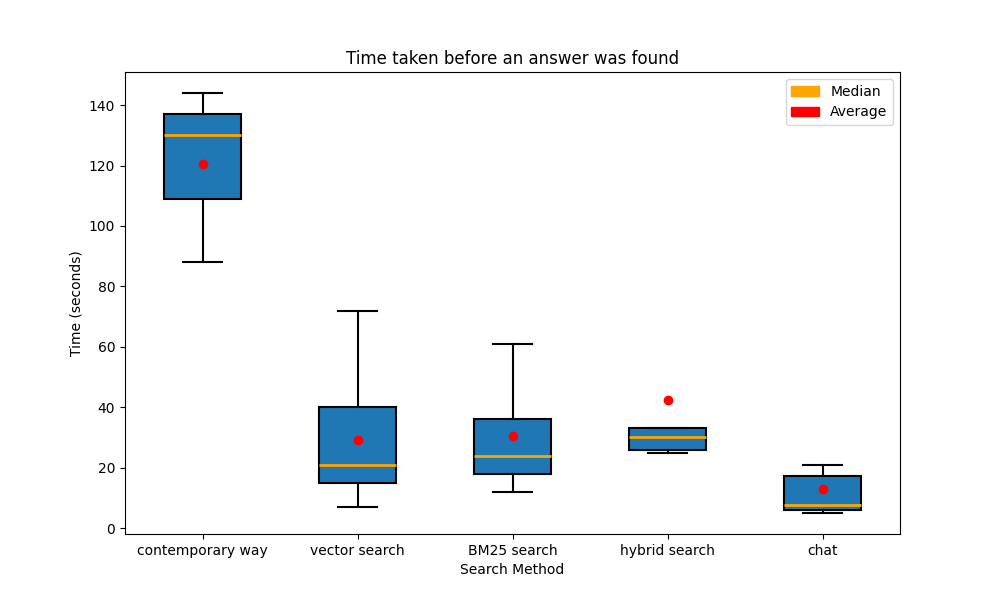
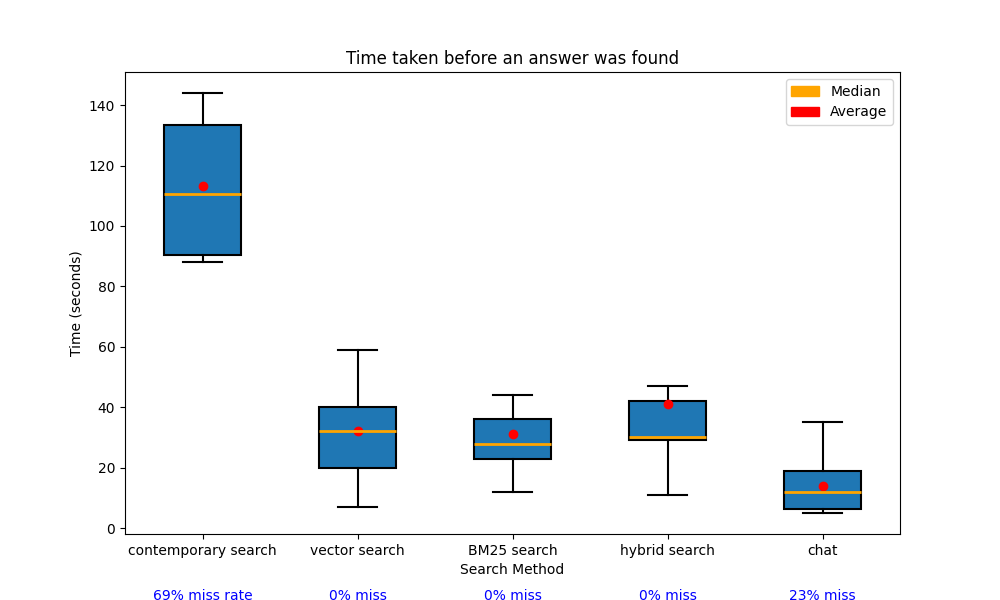
more thesis work

diff --git a/latex/latex_template_thesis_v4-2/thesis.tex b/latex/latex_template_thesis_v4-2/thesis.tex
@@ -8,6 +8,8 @@
 \usepackage{algpseudocode}
 \usepackage{fancyvrb}
 \usepackage{xcolor}
+\usepackage{subcaption}
+\usepackage{graphicx}
 
 % Citations
 \usepackage[style=numeric]{biblatex}
@@ -54,7 +56,7 @@ In summary, the research questions this thesis aims to answer are:
     \item How well can the developed search system be integrated with a large language model, creating a helpful chat bot capable of answering questions and providing complementary information when needed?
     \\
     
-    Together, these sub-research questions can be used to answer the main question:
+    Together, these sub-research questions can be used to answer the main research question:
     \item How can AI be utilized in order to increase information retrievability of large video archives, in particular of democratically elected councils?
 \end{enumerate}
 
@@ -533,7 +535,7 @@ This normalisation removes all non-alphabetical characters and converts all text
 \begin{figure}
     \centering
     \includegraphics[width=0.85\textwidth]{images/whisperBench.png}
-    \caption{Whisper transcription results}
+    \caption{Whisper transcription WER results}
     \label{fig:whisperExperiment}
 \end{figure}
 
@@ -565,21 +567,43 @@ geheim \textcolor{green}{verklaren} (verklaaren) ...
 \subsection{Pyannote}\label{sec:pyanExp}
 As described in section \ref{sec:pyannote}, speaker diarisation is scored based on the Diarisation Error Rate (DER). At the time of writing, pyannote.audio offers the best performing speaker diarisation, as shown in figure \ref{fig:pyanres}. 
 
-To test how well pyannote performs on the municipality dataset, I manually annotated 30 random minutes of meetings, distributed over five different meetings. I used audio tool Audacity \footnote{https://www.audacityteam.org/} to obtain millisecond-accurate timestamps. During manual diarisation, speakers were named arbitrarily. After diarisation, the manual speaker names were mapped to the speaker names given by pyannote to make sure the confusion rate metric can be performed.
+To test how well pyannote performs on the municipality dataset, I manually annotated 30 random minutes of meetings, distributed over five different meetings, from four different municipalities over three years. I used audio tool Audacity \footnote{https://www.audacityteam.org/} to obtain millisecond-accurate timestamps. During manual diarisation, speakers were named arbitrarily. After diarisation, the manual speaker names were mapped to the speaker names given by pyannote to make sure the confusion rate metric can be performed.
+
+One example of how a such a manual diarisation looks relative to a pyannote diarisation, can be seen in figure \ref{fig:manvspyan}. This snippet is taken from a Ridderkerk meeting in 2022, with code $938576$, starting at 00:41:10. As can be seen from the figure, the graph is mostly identical, ignoring some small starting- and ending points discrepancies. 
+One thing that stands out however, is the addition of two very short speaking turns picked up by pyannote. The first occurrence of this happens around 2530 seconds, where speaker 17 allegedly starts talking. This turns out to be just some noise resulting from the Zoom. Another the other short speaking turn, occurring at around 2615 seconds, is just a noise made by a meeting member, not worthy of being classified as speech. 
+
+\begin{figure}[htbp]
+    \centering
+    \begin{subfigure}{0.9\textwidth}
+        \centering
+        \includegraphics[width=\linewidth]{images/refDiar.png}
+        \caption{pyannote diarisation}
+        \label{fig:subfiga}
+    \end{subfigure}
+    \hfill
+    \begin{subfigure}{0.9\textwidth}
+        \centering
+        \includegraphics[width=\linewidth]{images/hypDiar.png}
+        \caption{Manual diarisation}
+        \label{fig:subfigb}
+    \end{subfigure}
+    \caption{Manual diarisation versus pyannote diarisation}
+    \label{fig:manvspyan}
+\end{figure}
 
 To address systemic differences in the idea when speech begins and ends, I performed two metrics. One with a 500 milliseconds collar, one with a 50 milliseconds collar, and one without a collar. 
 A collar is a margin of time around each speaker turn boundary. A 250 milliseconds collar would mean that the 125 milliseconds before and after each speaker change are excluded from evaluation.
 
 \begin{figure}
     \centering
-    \includegraphics[width=0.89\textwidth]{images/error_rates_box_plots.png}
+    \includegraphics[width=0.98\textwidth]{images/error_rates_box_plots.png}
     \caption{pyannote speaker diarisation results}
     \label{fig:pyanExperiment}
 \end{figure}
 
-Comparing figure \ref{fig:pyanExperiment} to the benchmark results in figure\ref{fig:pyanres}, some interesting observations can be made. 
+Comparing figure \ref{fig:pyanExperiment} to the benchmark results in figure \ref{fig:pyanres}, some interesting observations can be made. 
 Firstly, the measured Confusion rate is significantly lower than in the official benchmarks. Additionally, the average Miss- and False Alarm rates are roughly equivalent to those in the benchmark results. However, my application exhibits a few high outliers, predominantly originating from Zoom meetings. These outliers, as discussed in the previous section, are introduced by the same drawbacks associated with the online meeting environment.
-Finally, the DER, combining all previous mentioned metrics, is again fairly similar to the official benchmarks, even including the Zoom outliers. 
+Finally, the Diarisation Error Rate, combining all previous mentioned metrics, is again fairly similar to the official benchmarks, even including the Zoom outliers. 
 For all evaluated metrics, the median values are either comparable to- or notably lower than those in the official benchmarks. Indicating a strong general performance.
 One potential reason as to why pyannote seems to perform better on these meetings, is the relative simple structure of the meetings. There is not too much overlapping speech and speakers generally are speaking through good microphones.
 
@@ -601,7 +625,8 @@ Second is the sliding window approach used. Long meetings easily contain several
 
 
 \section{Search engine}\label{sec:searchEngineExp}
-To Answer the main research question \textit{how can AI be utilized in order to increase information retrievability of large video archives, in particular of democratically elected councils}? and the subquestion \textit{how well can the developed search system be integrated with a large language model, creating a helpful chat bot capable of answering questions and providing complementary information when needed}?, I gathered 10 participants and tasked them to find the answer to five questions using five different search methods.
+In this section, the developed methods for research question 4 and 5 are evaluated. The implementation that is to be evaluated is directly embedded in the final search engine. Thus, this section indirectly also provides an evaluation to the implementation of the main research question, \textit{How can AI be utilized in order to increase information retrievability of large video archives, in particular of democratically elected councils}?
+To do this, I gathered 13 participants and tasked them to find the answer to five questions using five different search methods.
 
 \begin{enumerate}
     \item The contemporary way, scrolling through the video and using its agenda points;
@@ -611,7 +636,9 @@ To Answer the main research question \textit{how can AI be utilized in order to 
     \item Using the chat function.
 \end{enumerate}
 
-For each participant, the search methods were randomly mapped to a question. The participants had three minutes to answer each question. In the scenario where a satisfactory answer is not found within the given time, the search is aborted and this is noted.
+For each participant, the search methods were randomly mapped to a question. 
+The participants first received a breakdown of the search engine, explaining how everything works. Then, they got some practice time to get familiar with the tools.
+Then, when they felt comfortable with the search engine, the participants had three minutes to answer each question. In the scenario where a satisfactory answer is not found within the given time, the search is aborted and this is noted.
 
 The questions were:
 \begin{enumerate}
@@ -624,16 +651,17 @@ The questions were:
 
 \begin{figure}
     \centering
-    \includegraphics[width=0.90\textwidth]{images/search_methods_box_plot.png}
+    \includegraphics[width=0.98\textwidth]{images/search_methods_box_plot.png}
     \caption{search engine results}
     \label{fig:engineResults}
 \end{figure}
 
-Figure \ref{fig:engineResults} shows the results of this experiment, disregarding the search attempts where an answer was not found in time. Observing these results, it can be concluded that the contemporary method of scrolling through the video is by far the least efficient. On top of the fact that the average search time is almost three times as slow as the second slowest method, in 70\% of the cases, a valid answer was not found within the given three minutes.
+Figure \ref{fig:engineResults} shows the results of this experiment, disregarding the search attempts where an answer was not found in time. 
+Observing these results, it can be concluded that the contemporary method of scrolling through the video is by far the least efficient. On top of the fact that the average search time is almost three times as slow as the second slowest method, in 69\% of the cases, a valid answer was not found within the given three minutes.
 
 The three Weaviate search methods all performed roughly equal, with BM25 taking the lead. As can be seen, vector search brought a higher degree of variability with it. Despite this variability, the interquartile range is not remarkably high compared to the other Weaviate search methods. 
 
-On the surface the chat functionality seems to work the quickest. However, this could have something to do with the specific questions asked. For about 20\% of the participants, the chat functionality could not give a valid answer. This is because if the answer to the questions is not among the top results returned by Weaviate, the LLM will not be capable of answering the question. In some cases, the LLM even hallucinated an answer, thinking it was correct despite this not being the case. 
+On the surface the chat functionality seems to work the quickest. However, this could have something to do with the specific questions asked. For about 23\% of the participants, the chat functionality could not give a valid answer. This is because if the answer to the questions is not among the top results returned by Weaviate, the LLM will not be capable of answering the question. In some cases, the LLM even hallucinated an answer, thinking it was correct despite this not being the case. 
 In the prompt the LLM is tasked to answer that it does not know something if the information is not in the provided context. Sometimes, this instruction is not properly followed and the LLM will make up an answer.
 Unfortunately, it is not easily detectable when an answer is a hallucination or true. Thus, one should not rely without second thought on answers given by the chat bot. When receiving a response, the answer should always be verified.
 
